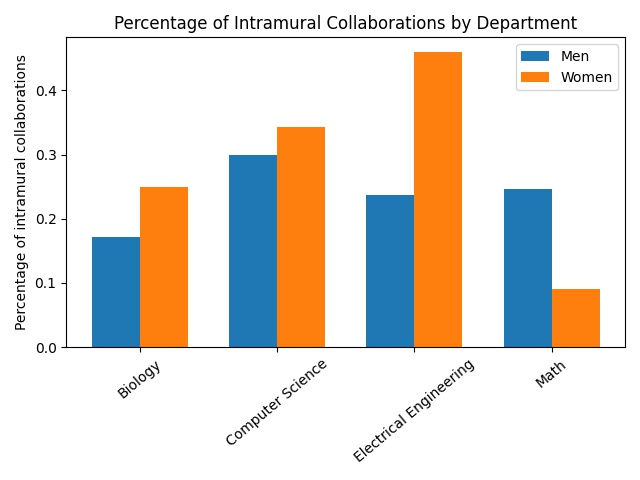
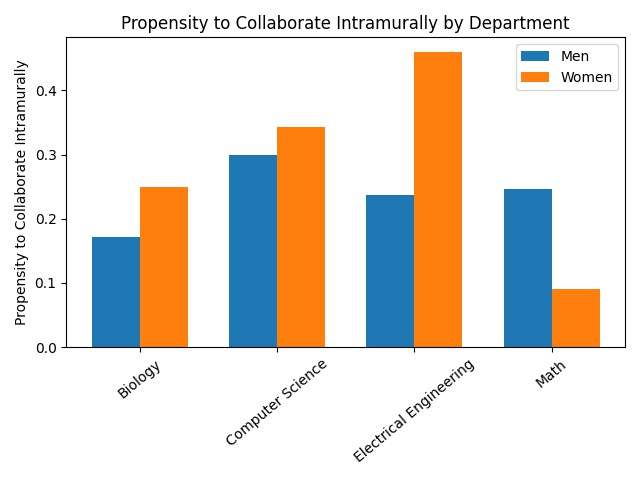
update claim 7 title

Changed region(s): [[0.1562, 0.0312, 0.9062, 0.0625], [0.0, 0.125, 0.0625, 0.5], [0.0, 0.5312, 0.0625, 0.6875]]

diff --git a/claims.py b/claims.py
@@ -525,11 +525,17 @@ def claim_7():
 
     m_avgs = [bio_m_count, cs_m_count, ee_m_count, math_m_count]
     f_avgs = [bio_f_count, cs_f_count, ee_f_count, math_f_count]
+
+    print(m_avgs)
+    # [0.1720648482648852, 0.29941925776692224, 0.2371874547038389, 0.2471705589102617]
+    print(f_avgs)
+    # [0.24935394425676488, 0.3432141559658338, 0.45981642035032716, 0.09051858535729504]
+
     plt.bar(ind, m_avgs, width, label="Men")
     plt.bar(ind + width, f_avgs, width, label='Women')
 
-    plt.ylabel('Percentage of intramural collaborations')
-    plt.title('Percentage of Intramural Collaborations by Department')
+    plt.ylabel('Propensity to Collaborate Intramurally')
+    plt.title('Propensity to Collaborate Intramurally by Department')
     plt.xticks(ind + width / 2, department, rotation=40)
     plt.tight_layout()
     plt.legend(loc='best')
@@ -701,4 +707,4 @@ def claim_9():
     plt.savefig('./data/claim9.jpg')
 
 
-claim_6_1()
+claim_7()
